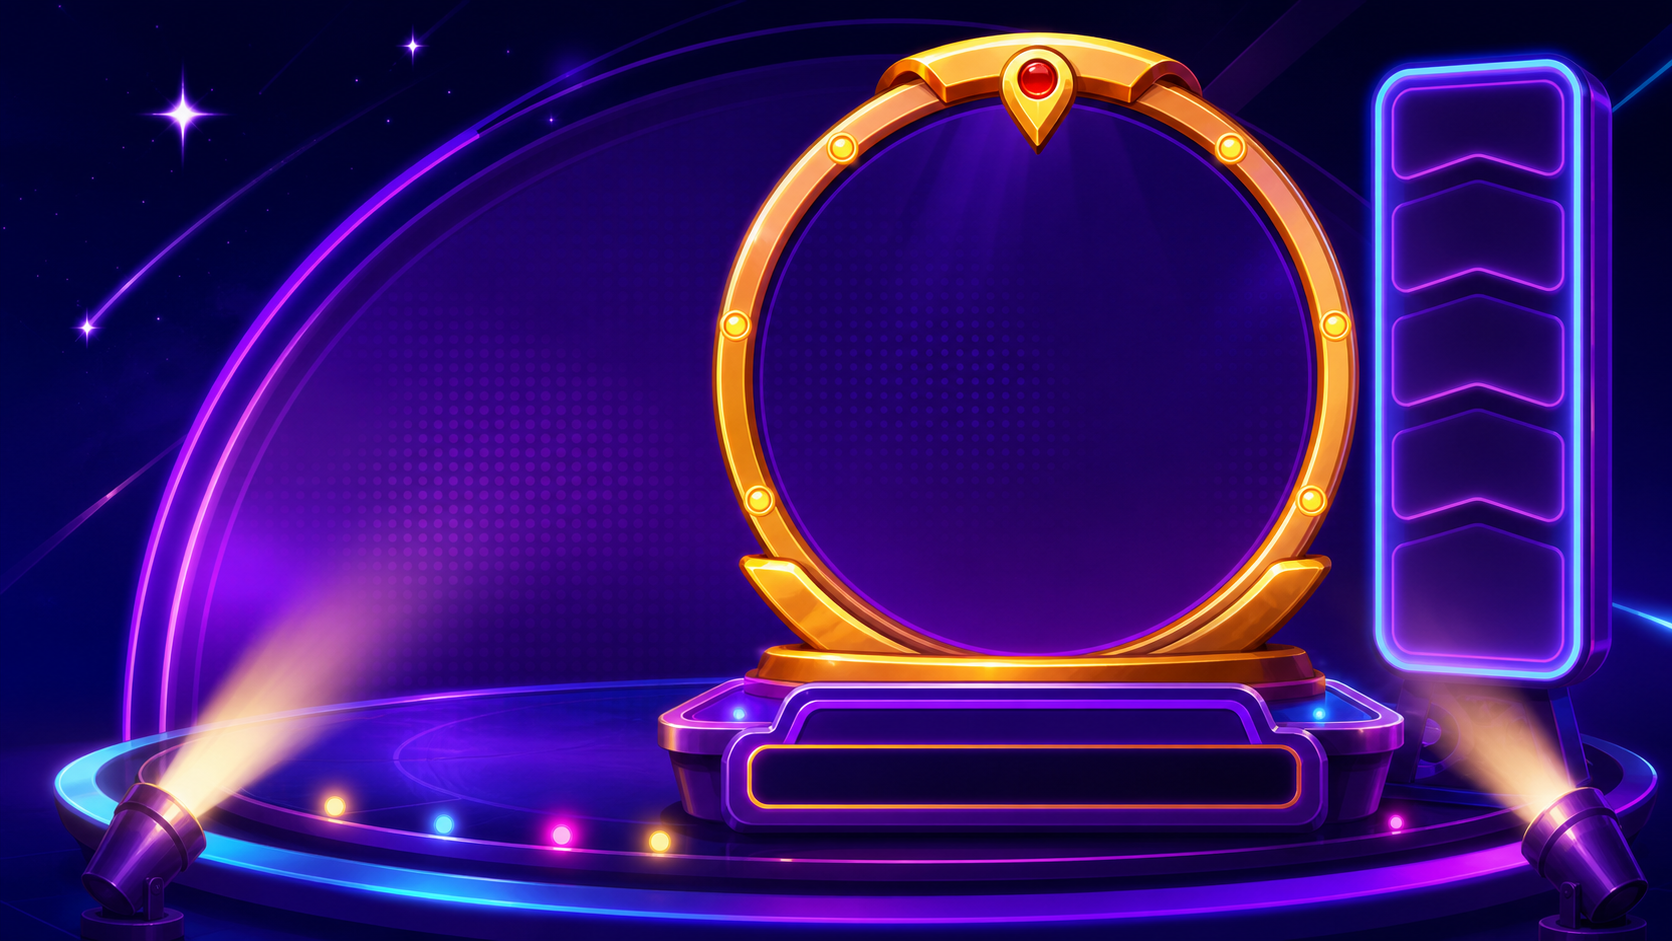
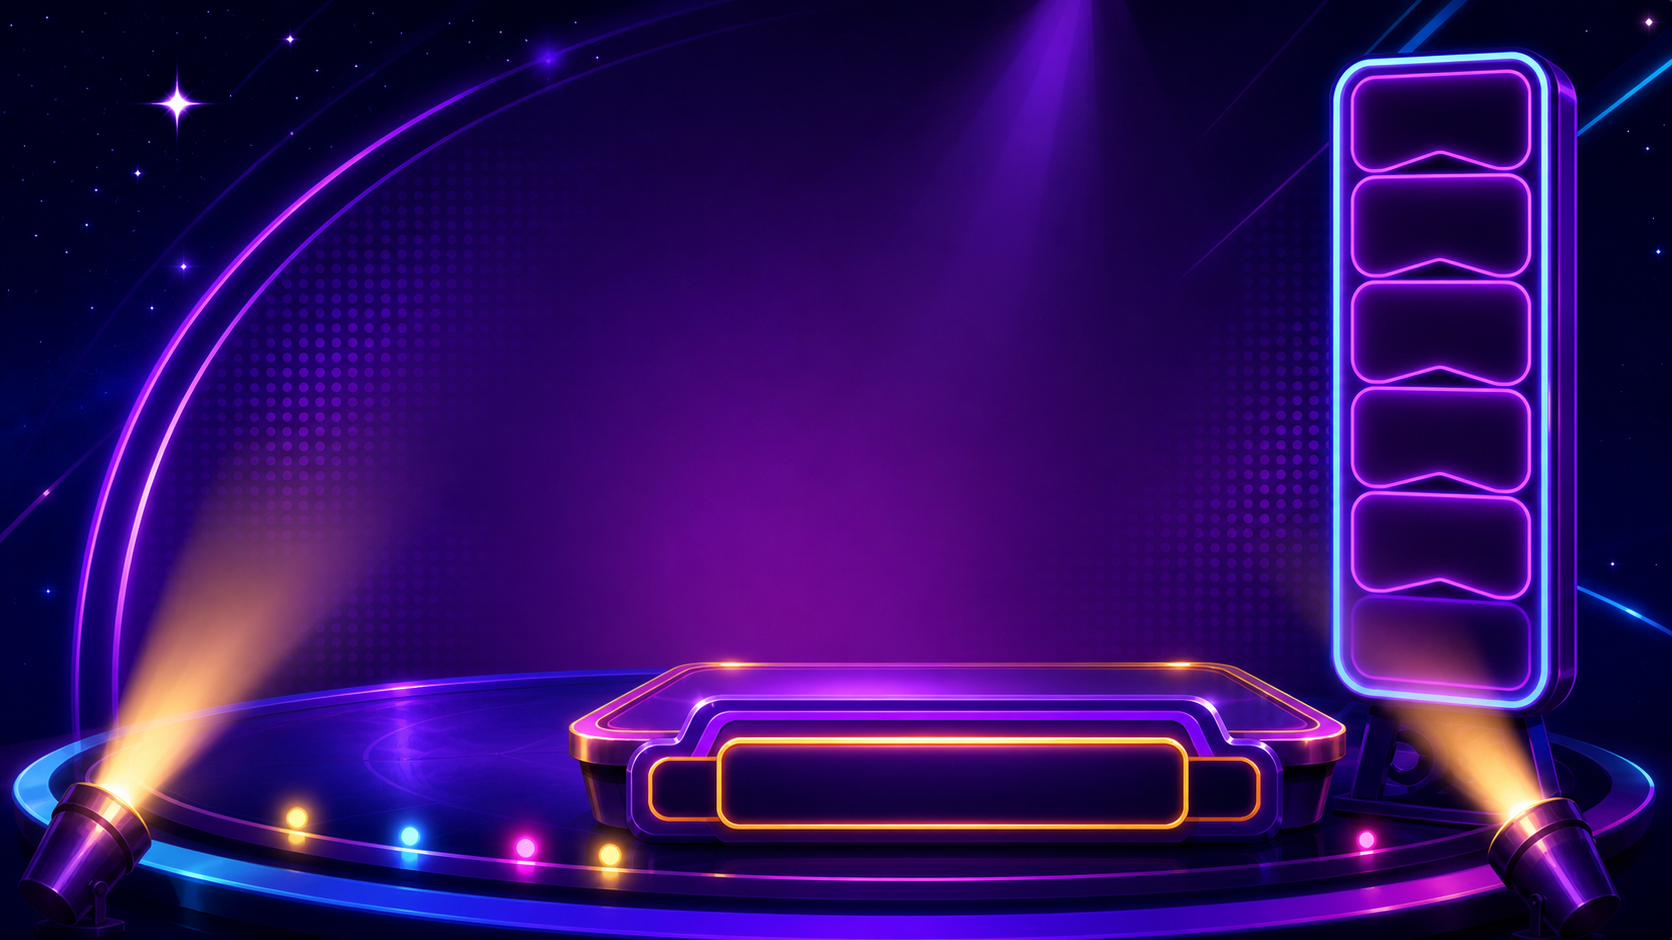
fix: 修正 webview 輪盤底圖對位
改用無內建輪盤框的舞台底圖，避免背景縮放時和 HTML 輪盤重疊錯位。

恢復由 HTML/CSS 自繪輪盤外框與指針，並調整輪盤位置、尺寸、標籤半徑與手機版座標。

驗證：frontend lint、frontend build、本機 webview 載入與可視化檢查通過。

diff --git a/frontend/public/webview.html b/frontend/public/webview.html
@@ -107,30 +107,69 @@
       .wheel-area {
         position: absolute;
         z-index: 3;
-        left: 62.2%;
-        top: 42.4%;
-        width: min(32vw, 548px);
+        left: 57.2%;
+        top: 45.8%;
+        width: clamp(320px, 34vw, 620px);
         aspect-ratio: 1;
         transform: translate(-50%, -50%);
-        --label-radius: min(10vw, 176px);
-        filter: drop-shadow(0 20px 18px rgba(0, 0, 0, 0.3));
+        --label-radius: min(11vw, 182px);
+        filter: drop-shadow(0 26px 24px rgba(0, 0, 0, 0.38));
       }
 
       .wheel-pointer {
-        display: none;
+        position: absolute;
+        z-index: 9;
+        left: 50%;
+        top: -6.2%;
+        width: 14%;
+        aspect-ratio: 0.78;
+        transform: translateX(-50%);
+        border-radius: 999px 999px 18% 18%;
+        background:
+          radial-gradient(circle at 50% 30%, #ffffff 0 12%, #ff5348 13% 34%, #c21822 35% 48%, transparent 49%),
+          linear-gradient(180deg, #ffe070 0%, #ff8c23 42%, #c84a12 100%);
+        clip-path: polygon(50% 100%, 3% 18%, 27% 0, 73% 0, 97% 18%);
+        filter:
+          drop-shadow(0 5px 6px rgba(0, 0, 0, 0.38))
+          drop-shadow(0 0 10px rgba(255, 204, 69, 0.55));
       }
 
       .wheel-pointer::after {
-        display: none;
+        content: "";
+        position: absolute;
+        left: 50%;
+        top: 13%;
+        width: 34%;
+        aspect-ratio: 1;
+        transform: translateX(-50%);
+        border-radius: 50%;
+        background: radial-gradient(circle at 34% 28%, #fff9d9 0 15%, #ff322c 36%, #b70018 100%);
+        box-shadow: 0 0 0 4px rgba(255, 218, 85, 0.9);
       }
 
       .wheel-frame {
-        display: none;
+        position: absolute;
+        inset: -7%;
+        border-radius: 50%;
+        background:
+          radial-gradient(circle at 50% 50%, transparent 0 62%, rgba(96, 38, 8, 0.72) 63% 66%, transparent 67%),
+          repeating-conic-gradient(
+            from 6deg,
+            rgba(255, 235, 154, 0.95) 0deg 6deg,
+            rgba(204, 99, 23, 0.95) 6deg 11deg,
+            transparent 11deg 45deg
+          ),
+          radial-gradient(circle at 42% 30%, #fff4a6 0 5%, #ffb047 16%, #c85c18 46%, #7b2b08 100%);
+        box-shadow:
+          inset 0 0 0 clamp(8px, 1vw, 16px) rgba(255, 218, 109, 0.55),
+          inset 0 0 32px rgba(86, 26, 0, 0.54),
+          0 0 0 clamp(6px, 0.8vw, 12px) rgba(103, 36, 6, 0.76),
+          0 18px 30px rgba(0, 0, 0, 0.32);
       }
 
       .wheel-disc {
         position: absolute;
-        inset: 0;
+        inset: 9%;
         border-radius: 50%;
         overflow: hidden;
         transform: rotate(var(--wheel-rotation, 0deg));
@@ -195,7 +234,7 @@
       .spin-center {
         position: absolute;
         z-index: 7;
-        inset: 34.5%;
+        inset: 35.5%;
         border: 0;
         border-radius: 50%;
         color: #5b6372;
@@ -397,10 +436,10 @@
         }
 
         .wheel-area {
-          width: min(56vw, 430px);
-          left: 55%;
-          top: 40%;
-          --label-radius: min(18vw, 142px);
+          width: min(62vw, 430px);
+          left: 54%;
+          top: 43%;
+          --label-radius: min(19vw, 142px);
         }
 
         .vip-track {